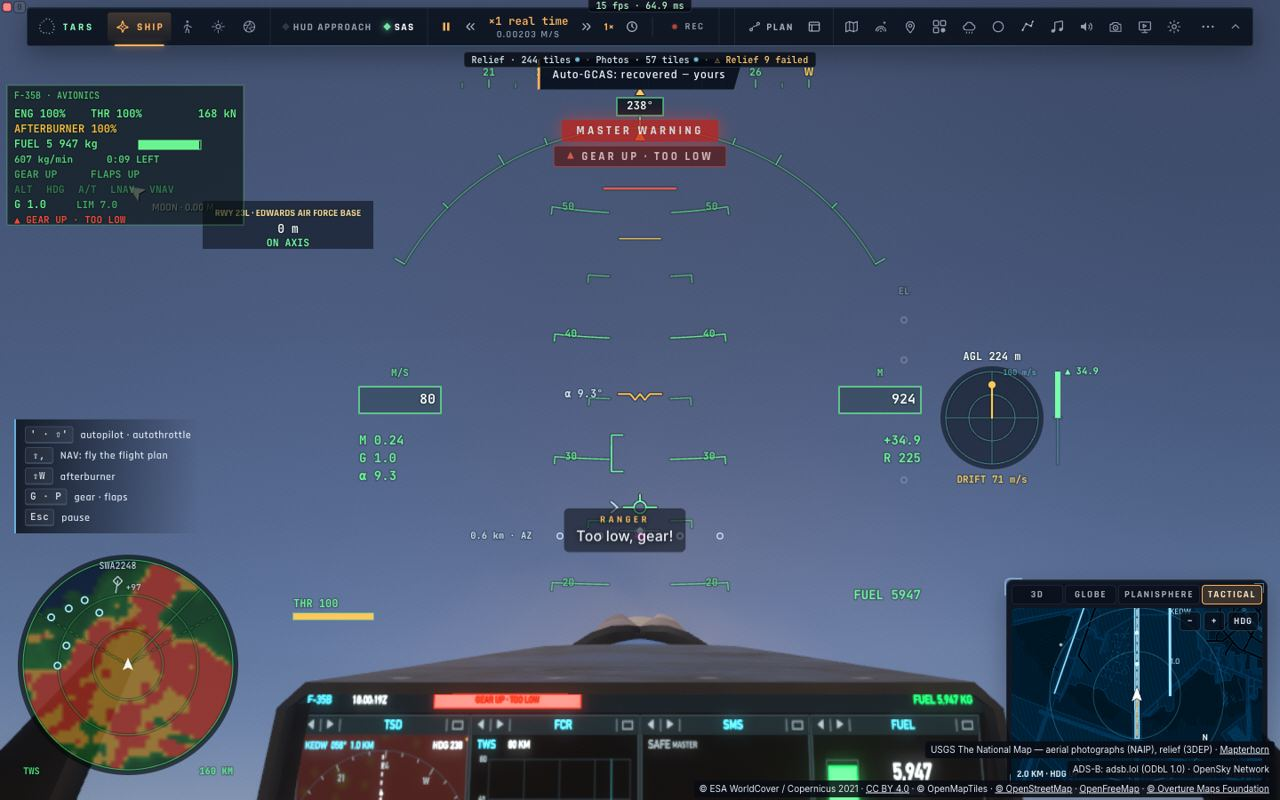
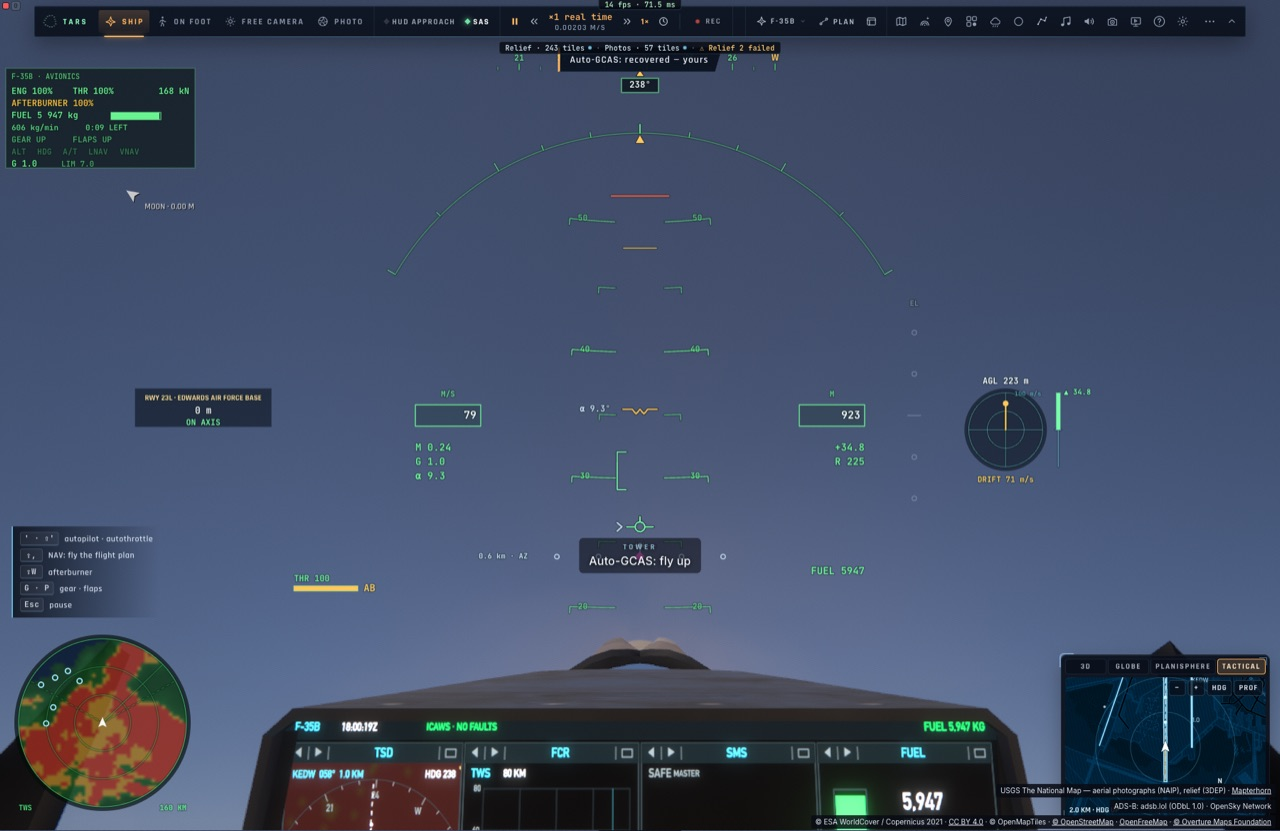
La leçon 3 d'apprendre-avions revolée : plus d'alarme du train dans la montée (capture et légende, examens) ; le bandeau lit un filtre -t accentué (ps écrit « leM-CM-'ons »)

diff --git a/docs/apprendre-avions.html b/docs/apprendre-avions.html
@@ -303,7 +303,7 @@ c.pilot.throttle = 1; c.jetToggle("ab");
 for (let i = 0; i &lt; 30 * 40 &amp;&amp; (c.rolling || c.ourLanded); i++) __bh.step(1 / 30);
 c.pilotInput = c.__input; c.gearDown = false;</pre></details>
 <div class="box ok"><b>Vérifié en jeu (e2e, 6 novembre 2026)</b>La recette de cette leçon, telle quelle : décollage en <b>11 s</b>, puis vario +35 m/s, inclinaison 0°, train rentré.</div>
-<div class="grid2"><figure><img src="progress/apprendre/av-l3-aligne.jpg" alt="Aligné à Edwards, manette 0" loading="lazy"><figcaption>Aligné à Edwards, manette 0</figcaption></figure><figure><img src="progress/apprendre/av-l3-montee.jpg" alt="8 s après le décollage : vario +35 m/s, ailes à plat, train rentré" loading="lazy"><figcaption>8 s après le décollage : vario +35 m/s, ailes à plat, train rentré. (Capture d'avant le 16 nov. 2026 : l'alarme « train rentré trop bas » y sonnait ; elle se tait désormais pendant la montée initiale, jusqu'à 457 m.)</figcaption></figure></div>
+<div class="grid2"><figure><img src="progress/apprendre/av-l3-aligne.jpg" alt="Aligné à Edwards, manette 0" loading="lazy"><figcaption>Aligné à Edwards, manette 0</figcaption></figure><figure><img src="progress/apprendre/av-l3-montee.jpg" alt="8 s après le décollage : vario +35 m/s, ailes à plat, train rentré" loading="lazy"><figcaption>8 s après le décollage : vario +35 m/s, ailes à plat, train rentré — l'alarme « train rentré trop bas » se tait pendant la montée initiale (jusqu'à 457 m ; revolé le 16 nov. 2026)</figcaption></figure></div>
 <div class="box"><b>Ou bien U : le décollage automatique</b>Aligné sur une piste, <kbd>U</kbd> met plein gaz et la postcombustion, tient l'axe, fait la rotation à <b>67 m/s</b>, monte à ~8 m/s (assiette 8 à 20°), rentre le train, puis à 110 m/s et 100 m rend la main aux maintiens : <b>1 500 m au-dessus du terrain</b>, le cap de la piste, <b>210 m/s</b>, postcombustion coupée. Le manche, la manette tirée ou <kbd>U</kbd> à nouveau l'arrêtent ; l'Auto-GCAS reste désarmé pendant ce décollage. <b>Pendant la montée, l'altitude, le cap et la vitesse que vous choisissez sont armés</b> : ils deviennent les maintiens à la fin du décollage, à la place des siens. Par code : la vraie touche, ou <code>__bh.camera.runwayTakeoff()</code>.</div>
 <div class="box ok"><b>Vérifié en jeu (e2e, 11 novembre 2026 ; revolé le 15 novembre)</b>La vraie touche U, le F-35B aligné à Edwards : en l'air en <b>10,8 s</b>, assiette 20,1° au plus, l'axe tenu à 0,3°, aucun GCAS ; à 45 s, 1 348 m, 201 m/s, +30 m/s, ALT/HDG/A/T engagés. <b>Armé en montée</b> (e2e <code>takeoff-armed</code>, 15 novembre) : 2 500 m, 270°, 150 m/s choisis à 16 s, tenus à la fin du décollage — à 70 s, 1 110 m au-dessus du terrain, cap 269°, 143 m/s.</div>
 <div class="grid2"><figure><img src="progress/apprendre/av-l3-u-montee.jpg" alt="45 s après U : 1 348 m, 201 m/s, maintiens engagés" loading="lazy"><figcaption>45 s après U : 1 348 m, 201 m/s, +30 m/s ; ALT, HDG et A/T engagés, train et volets rentrés</figcaption></figure></div>

diff --git a/tests/e2e/lib/banner.ts b/tests/e2e/lib/banner.ts
@@ -54,7 +54,8 @@ function filter(): RegExp | null {
         .stdout.toString()
         .trim();
       const m = line.match(/(?:^|\s)(?:-t|--test-name-pattern)(?:=|\s+)(.+?)(?=\s+--?[a-zA-Z]|$)/);
-      pat = m ? m[1]!.replace(/^(["'])(.*)\1$/, "$2") : null;
+      // (ps writes the bytes beyond ASCII as « M-x » — « leçons » comes as « leM-CM-'ons »: such a run one or two characters)
+      pat = m ? m[1]!.replace(/^(["'])(.*)\1$/, "$2").replace(/(?:M-.)+/g, ".{1,2}") : null;
     } catch {}
   }
   try {
@@ -79,9 +80,10 @@ export function fileInfo(path: string): FileInfo {
   const suite = src.match(new RegExp(String.raw`\bdescribe(?:\.skipIf\([^)]*\))?\(\s*${title}`));
   const f = filter();
   const full = (t: string) => (suite ? `${pick(suite)} ${t}` : t);
-  const tests = [...src.matchAll(new RegExp(String.raw`\btest(?:\.skipIf\([^)]*\)|\.if\([^)]*\))?\(\s*${title}`, "g"))]
-    .map(pick)
-    .filter((t) => !f || f.test(t) || f.test(full(t)));
+  const all = [...src.matchAll(new RegExp(String.raw`\btest(?:\.skipIf\([^)]*\)|\.if\([^)]*\))?\(\s*${title}`, "g"))].map(pick);
+  // (a filter that picks none — misread —: the file's tests all, rather than none)
+  const picked = all.filter((t) => !f || f.test(t) || f.test(full(t)));
+  const tests = picked.length ? picked : all;
   // (the header: the first block of line comments — after the imports —, its lines joined; its "Duration:" and "Done when:"
   // lines apart, each running on to the next tagged line or the header's end)
   const lines = src.split("\n");

diff --git a/docs/progress/apprendre-a-voler-examens.md b/docs/progress/apprendre-a-voler-examens.md
@@ -153,3 +153,11 @@ existantes ne changent pas ; l'étape 9 bis est nouvelle, volée par `fd-approac
 apprendre-avions.html) : Tab › **Approche** (au lieu de Navigation › Approche ILS et de sa sous-roue de pistes). Les recettes de vol
 ne changent pas ; `apprendre-avions` n'utilise pas la roue. Revérifié : `approach-wheel` 2/2 et `ils-runway` 1/1 (le choix de la
 piste à la roue, en français, à Toulon-Hyères), par entrée réelle.
+
+**16 novembre 2026 — l'alarme du train (GPWS mode 4A), la leçon 3 revolée ; la ligne d'horizon du HUD retirée.** La leçon 3 disait
+l'alarme « train rentré trop bas » normale juste après le décollage : elle ne sonne plus pendant la montée initiale (`game/gear-warn.ts` :
+train rentré, sous 152 m sol et 98 m/s, en descente, hors montée jusqu'à 457 m). Revolé : `apprendre-avions` « leçons 0 et 3 » 1/1 (ce Mac,
+fenêtre visible) — à 223 m, +34,8 m/s, train rentré : plus d'alarme (avant : « MASTER WARNING · GEAR UP · TOO LOW », « Too low, gear! »).
+La capture `av-l3-montee.jpg` remplacée ; l'« Auto-GCAS: recovered » qu'on y lit était déjà sur l'ancienne (non lié). Le schéma du HUD
+(apprendre-avions.html) perd sa ligne d'horizon (retirée du HUD ce jour, Sam). Ouvert : l'Auto-GCAS qui reprend la main pendant la
+montée de la leçon 3 — non examiné.
